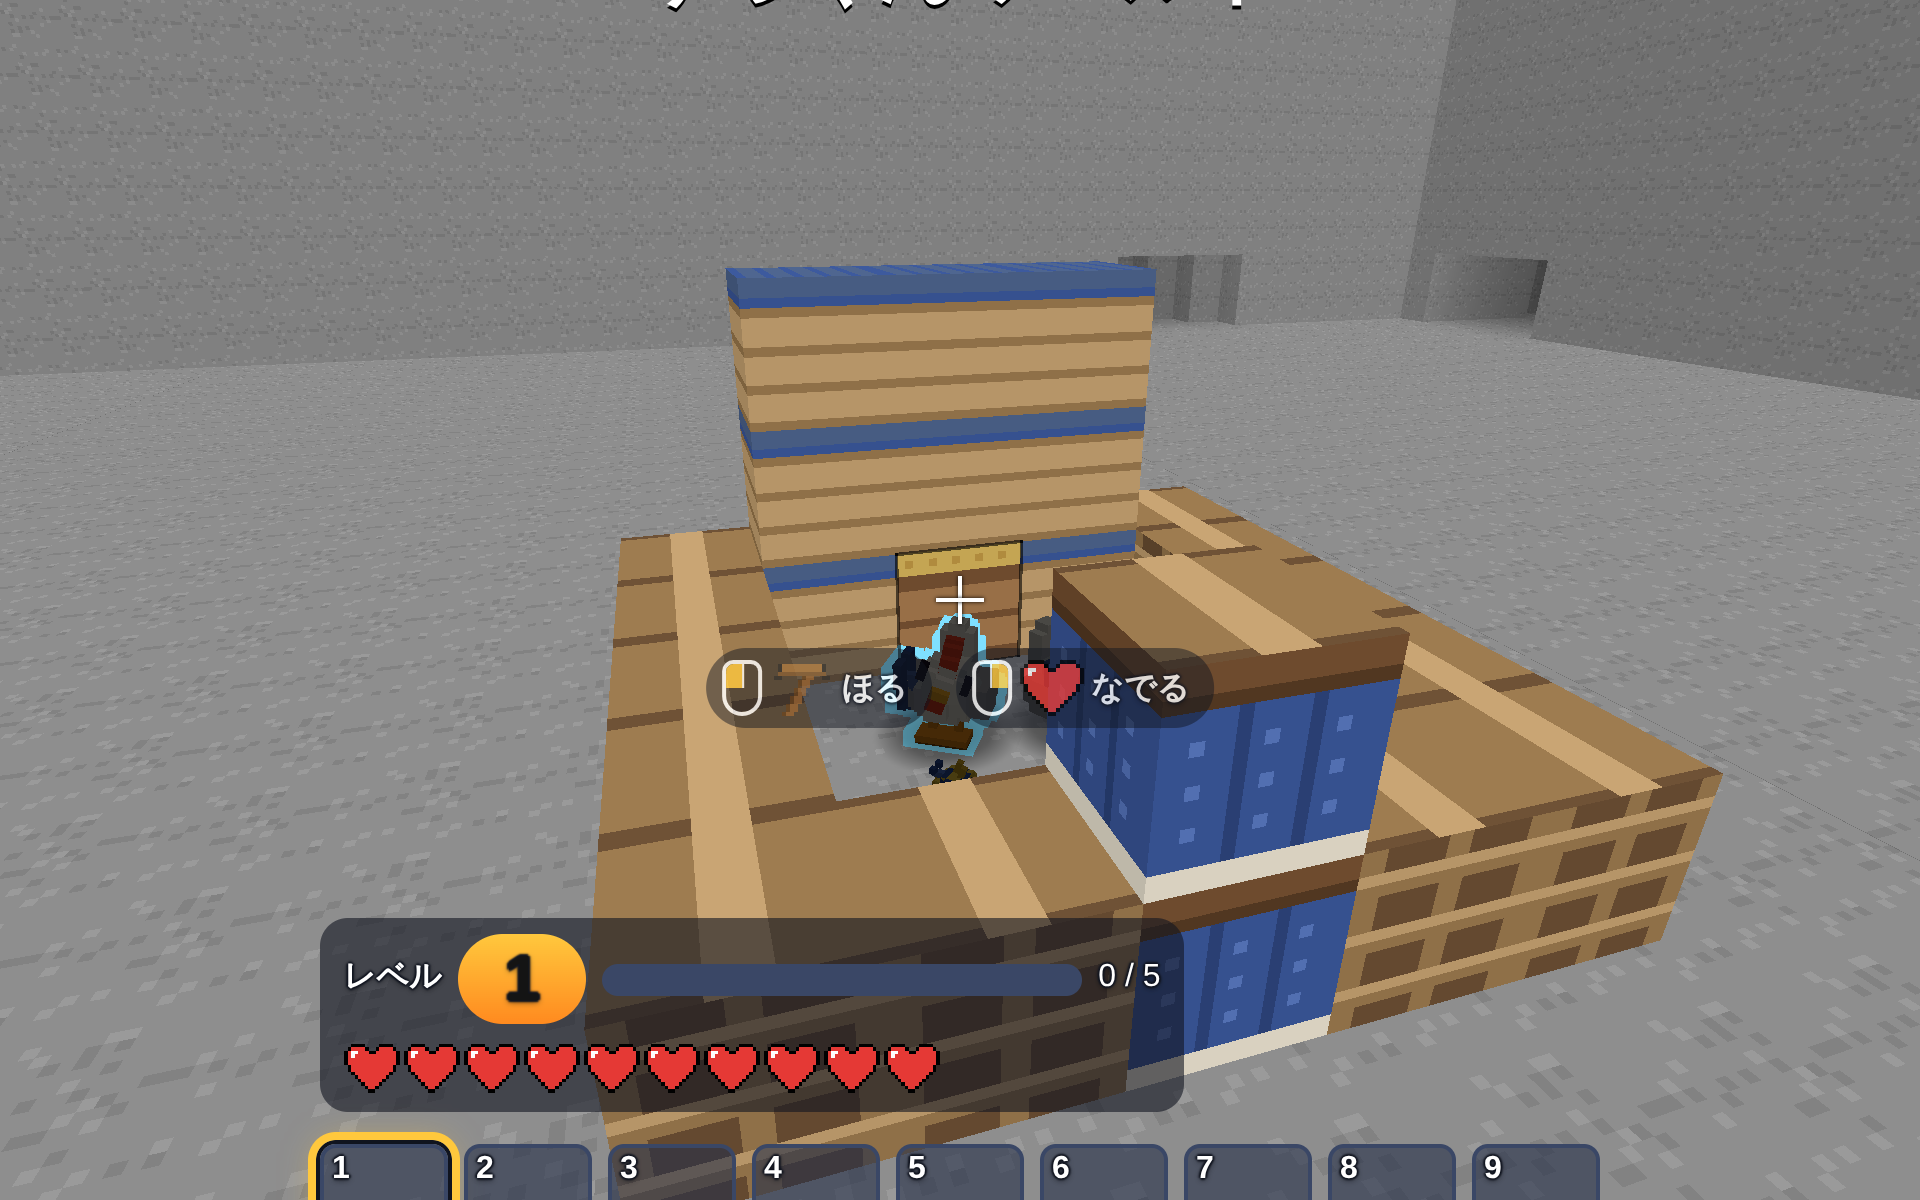
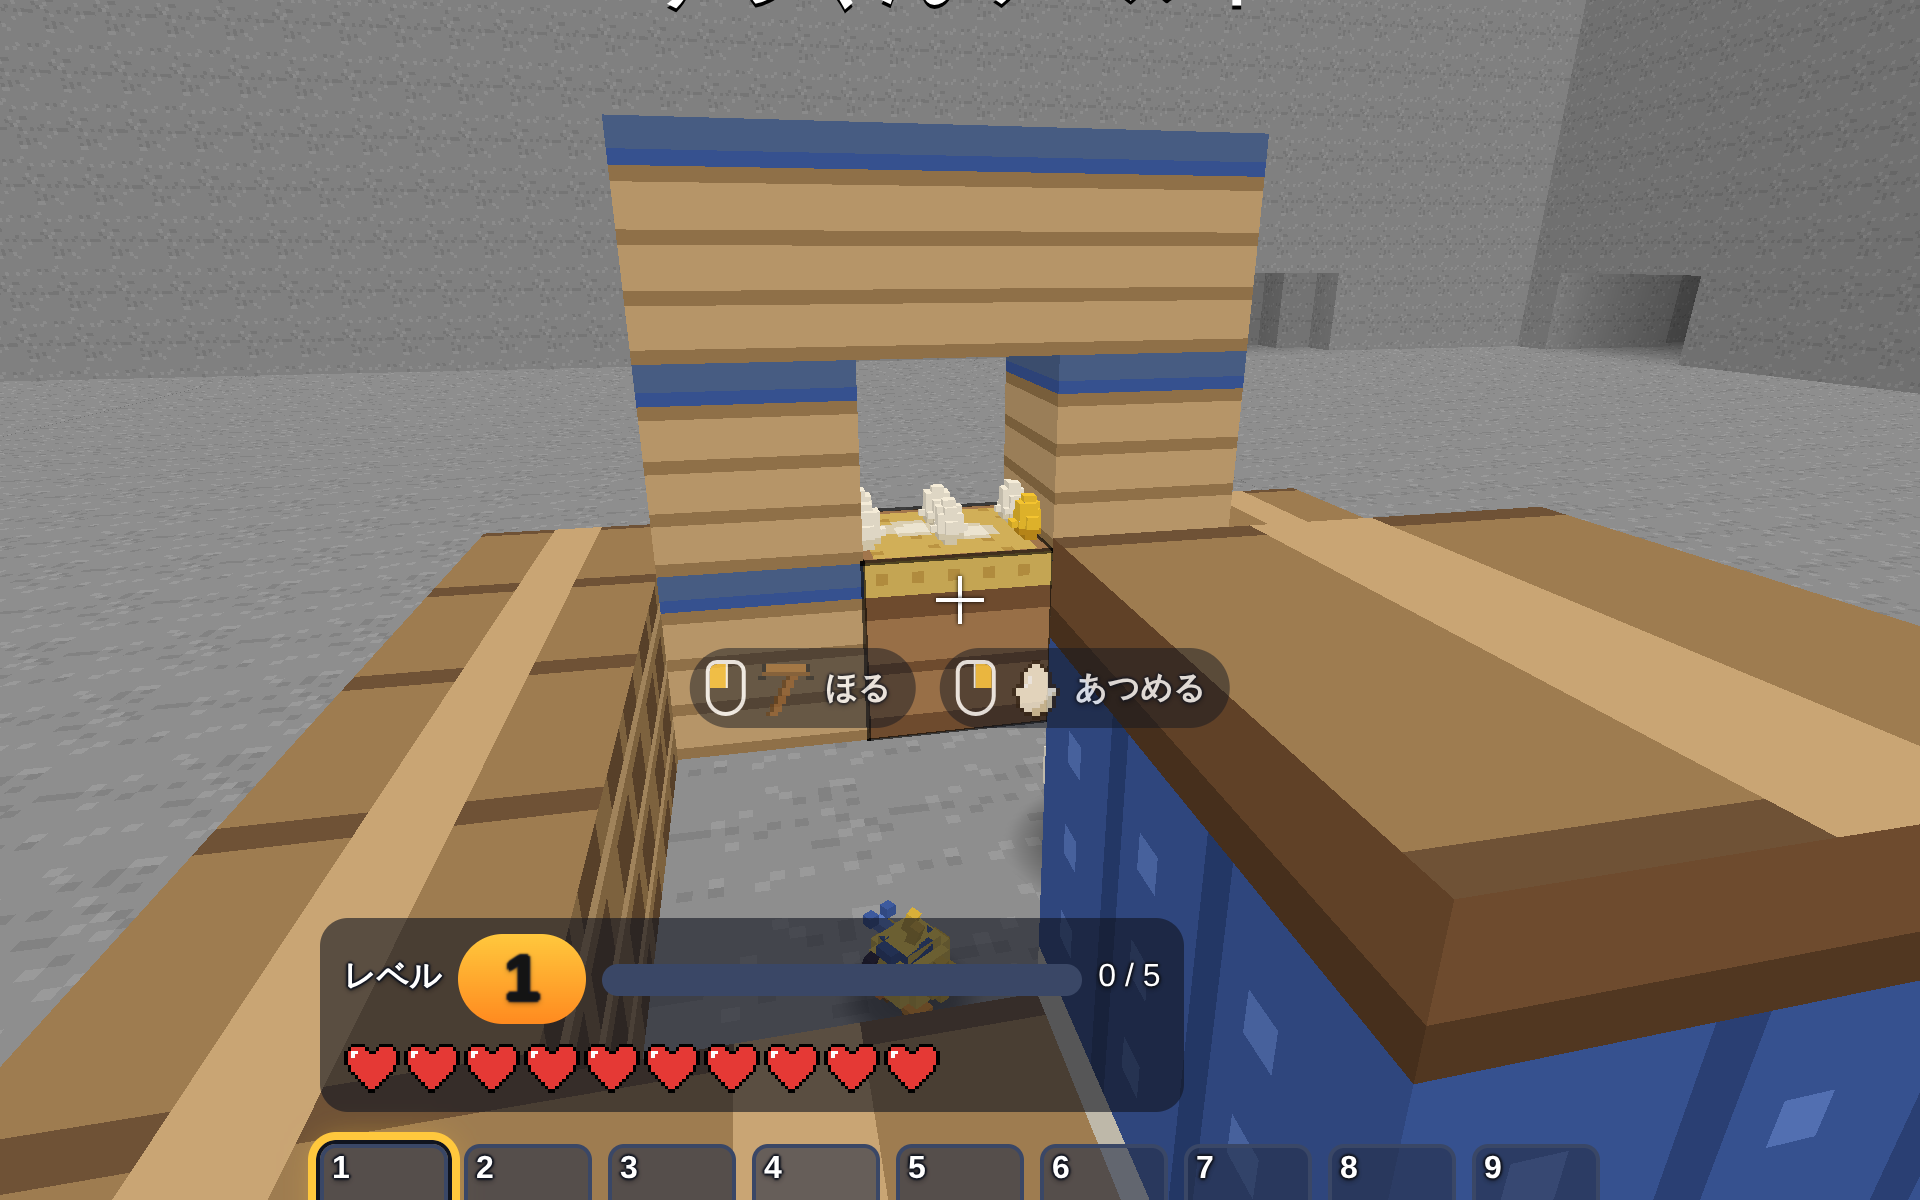
fix(LIVE-2): すばこ の 真上 を 空気 に して たまご を 見せる
- coopBlocks: すばこ の 上 の 1 マス を あける（両がわ の ねぐら と やね が かこむ）。toriya_nest 8 → 7
- スクショ 撮りなおし（07-nestbox-eggs・06-coop-overview）

Claude-Session: https://claude.ai/code/session_01VZt9Ej7aRghosAFkVdwAwt

diff --git a/src/animals/coop.ts b/src/animals/coop.ts
@@ -51,7 +51,8 @@ export function coopBlocks(x: number, y: number, z: number, dir: CoopDir): CoopB
       } else if (a === -COOP_HALF && Math.abs(b) <= 1) {
         // ねぐら（うしろ の 列 の まん中 3 マス）。まん中 の ゆか が すばこ
         add(cx, y, cz, b === 0 ? 'toriya_box' : 'toriya_nest');
-        add(cx, y + 1, cz, 'toriya_nest');
+        // すばこ の 上 は あける（たまご が 見える。両がわ の ねぐら と 上 の やね で かこむ ので 入れない）
+        if (b !== 0) add(cx, y + 1, cz, 'toriya_nest');
         add(cx, y + 2, cz, 'toriya_nest');
       } else {
         add(cx, y, cz, 'toriya_fence');

diff --git a/src/animals/live2.test.ts b/src/animals/live2.test.ts
@@ -389,7 +389,7 @@ describe('AC7 小屋を 置く', () => {
     }
     expect(seen.toriya_box).toBe(1);
     expect(seen.toriya_gate).toBe(2);
-    expect(seen.toriya_nest).toBe(8);
+    expect(seen.toriya_nest).toBe(7); // すばこ の 上 の 1 マス は あけて たまご を 見せる
     expect(seen.toriya_fence).toBe(12);
     expect(c.gate).toEqual({ x: 48, z: 50 });
     expect(c).toMatchObject({ x: 50, y: 9, z: 50, dir: 3, kids: [], nest: { egg: 0, gold: 0 } });

diff --git a/docs/design/LIVE-2.md b/docs/design/LIVE-2.md
@@ -51,7 +51,7 @@
 
 - **つくる**: `toriya` 1 = き（`log`）8・くさ（`grass`）4。つくる カード の いちばん うしろ（`nukunuku` の うしろ）。
 - **大きさ と 形**（置いた とき に 一度 に できる。見た目 は 決定 K3「さく の にわ」を 5×5 に。DESIGN 16.14）: そと **5×5**、中 は **3×3**（プレイヤー が 入れる）。置く の に いる 高さ は **4**（ねぐら の やね の てっぺん 約 3 マス ＋ ゆとり）。
-  - まわり の わ（前・左右・すみ）は **さく**（見た目 の 高さ 12/9 マス）。前 の さく の まん中 に **もん**（のれん の とびら。はば 1・高さ 2）。うしろ の 列 の まん中 3 マス は **ねぐら**（藍 の 三角やね・前 が ひらく）。**すばこ** は ねぐら の ゆか（中 から たまご が 見える 所、1 マス）。
+  - まわり の わ（前・左右・すみ）は **さく**（見た目 の 高さ 12/9 マス）。前 の さく の まん中 に **もん**（のれん の とびら。はば 1・高さ 2）。うしろ の 列 の まん中 3 マス は **ねぐら**（藍 の 三角やね・前 が ひらく）。**すばこ** は ねぐら の ゆか（中 から たまご が 見える 所、1 マス）。**すばこ の 真上 の 1 マス は 空気**（たまご が 外 から 見える。両がわ の ねぐら と 上 の やね で かこまれる ので 人 も 子 も 入れない・さく を こえる 道 に ならない）。
   - 小屋 の ブロック ＝ さく・もん・ねぐら・すばこ（持ち物 に 入らない。§4.2）。
 - **当たり（PO 決定 2026-10-18）**: さく は 見た目 は ひくい（12/9 マス。中 の 子 が さく ごし に 見える）が、**当たり は 高さ 2 マス**。プレイヤー の ジャンプ（1.25 マス）で こえられず、さく の 上 に も のれない。中 の 子・やせい・なかま も こえない。ねぐら の かべ・やね も 外 から 通れない。中 と 外 を 行き来 できる の は もん だけ（下 の 「通れる か」）。
 - **置く**: `toriya` を 持って 地面 を ねらう と、置く 所 に 小屋 の **すけた 形**（入る 所 は 白、入らない 所 は うすい 赤 ＋ ×で なく ななめ の しま）。右クリック で 置く。もん は プレイヤー の 方 を 向く（4 方向 の 近い 方）。
